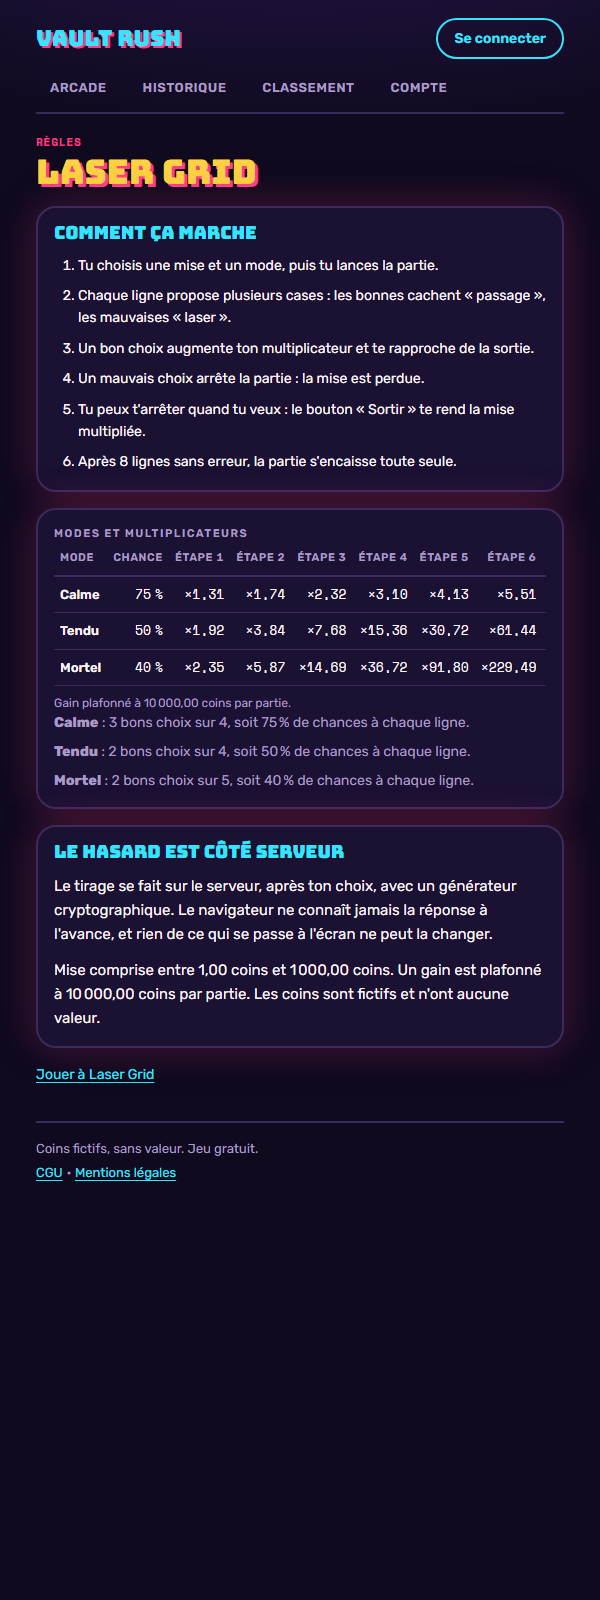
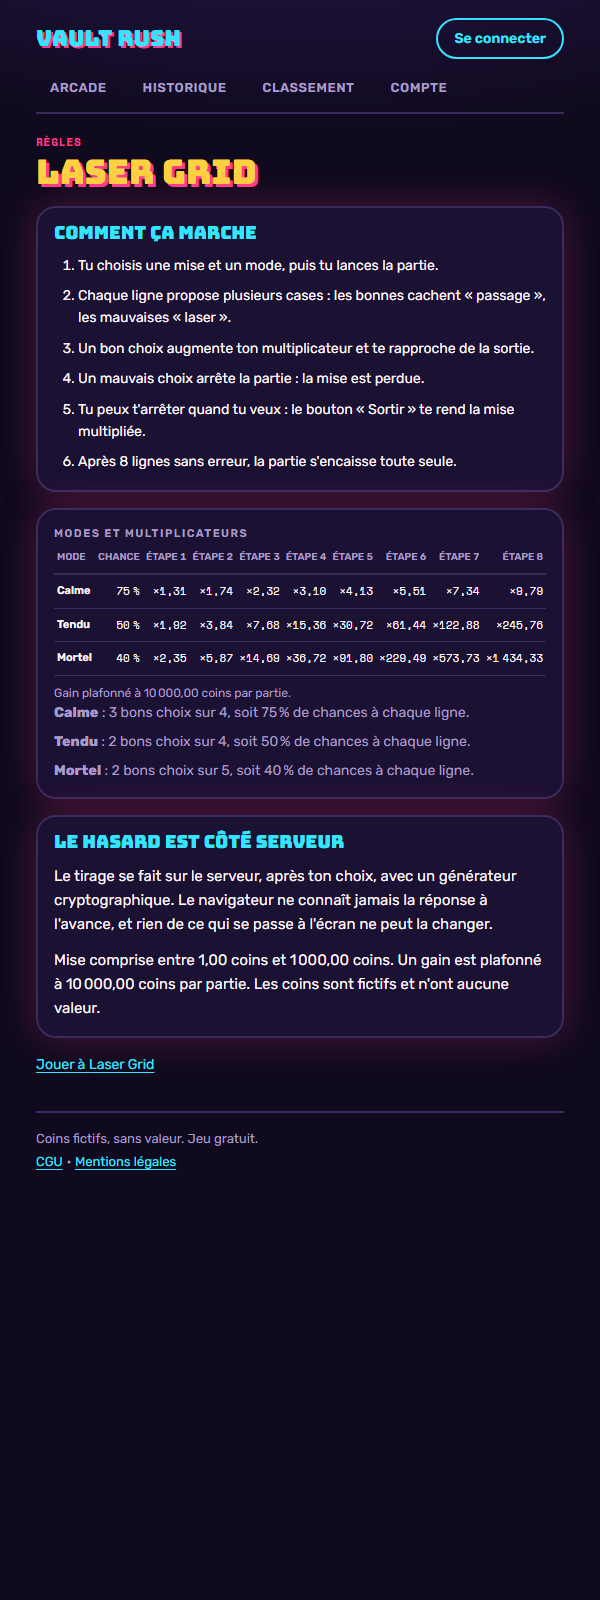
fix(client): rejouer après une reprise, solde relu quand un 409 clôt la partie
Deux défauts relevés en revue.

1. « Rejouer » ne faisait rien après une reprise : `lastBet` n'était posé que
   par `start`, donc après un rechargement en cours de partie (ou un 409
   `round_active`) le bouton restait actif et sortait en silence. La mise à
   rejouer est maintenant dérivée de la partie affichée dans `adopt()`, et le
   montage passe par `adopt` au lieu de poser l'état à la main.
2. Le bilan pouvait montrer un solde périmé : les branches d'erreur de `play`
   et de `cashout` adoptaient la partie du 409 sans relire le solde, alors
   qu'une partie encaissée ailleurs a déjà été créditée.

Deux tests ajoutés (116 au total) ; vérifiés en les faisant tomber d'abord.

Mineurs de la même revue :
- montant de la recharge gratuite passé par `formatCoins` ;
- `OptionGrid` reçoit le vocabulaire du jeu : une case révélée s'annonce
  « laser » / « passage » sur Laser Grid, plus « alarme » / « sûre » ;
- l'accent des tuiles suit le rang du jeu, sans identifiant en dur ;
- branche morte retirée de `errorMessage` ;
- le tableau des récompenses se resserre au-delà de 6 étapes : les 8 lignes
  de Laser Grid tiennent dans la carte (mesuré 492/492) au lieu de défiler.

Changed region(s): [[0.06, 0.3438, 0.93, 0.75]]

diff --git a/client/src/games/useLadderGame.ts b/client/src/games/useLadderGame.ts
@@ -2,6 +2,7 @@ import { useCallback, useEffect, useRef, useState } from "react";
 import { ApiError, games, type GameConfig, type Outcome, type Round } from "../api.ts";
 import { errorMessage } from "../lib/messages.ts";
 import { useSession } from "../session.tsx";
+import { coinsOnly } from "./bets.ts";
 import { capitalize } from "./labels.ts";
 
 /**
@@ -72,11 +73,18 @@ export function useLadderGame(gameId: string): LadderGame {
 
   const { refreshBalance, setBalance } = session;
 
-  /** Adopte l'état de partie renvoyé par le serveur (réponse ou corps d'un 409). */
+  /**
+   * Adopte l'état de partie renvoyé par le serveur (réponse ou corps d'un 409).
+   *
+   * La mise à rejouer est TOUJOURS dérivée de la partie affichée : sinon
+   * « Rejouer » ne ferait rien après une reprise (rechargement de page ou 409
+   * `round_active`), où aucun `start` n'a eu lieu dans cet onglet.
+   */
   const adopt = useCallback((next: Round, options: { resumed?: boolean } = {}) => {
     setRound(next);
     setResumed(options.resumed ?? false);
     setState(next.status === "playing" ? "active" : "finished");
+    setLastBet({ coins: coinsOnly(next.betCents), mode: next.mode });
   }, []);
 
   useEffect(() => {
@@ -97,11 +105,7 @@ export function useLadderGame(gameId: string): LadderGame {
         ]);
         if (annulé || !alive.current) return;
         setConfig(game);
-        if (en_cours) {
-          setRound(en_cours);
-          setResumed(true);
-          setState(en_cours.status === "playing" ? "active" : "finished");
-        }
+        if (en_cours) adopt(en_cours, { resumed: true });
       } catch (err) {
         if (!annulé && alive.current) setError(errorMessage(err));
       } finally {
@@ -112,7 +116,7 @@ export function useLadderGame(gameId: string): LadderGame {
     return () => {
       annulé = true;
     };
-  }, [gameId]);
+  }, [adopt, gameId]);
 
   /** Enveloppe commune : un seul vol à la fois, erreurs traduites. */
   const run = useCallback(async (action: () => Promise<void>) => {
@@ -185,8 +189,12 @@ export function useLadderGame(gameId: string): LadderGame {
             (err.code === "step_mismatch" || err.code === "round_not_active") &&
             err.payload.round
           ) {
+            const adoptée = err.payload.round as Round;
             setRevealed(null);
-            adopt(err.payload.round as Round);
+            adopt(adoptée);
+            // La partie a pu se terminer ailleurs (second onglet, requête
+            // doublée) : le gain est déjà crédité, le bilan doit le montrer.
+            if (adoptée.status !== "playing") await refreshBalance();
           }
           setError(errorMessage(err));
         }
@@ -208,12 +216,14 @@ export function useLadderGame(gameId: string): LadderGame {
         } catch (err) {
           if (!alive.current) return;
           if (err instanceof ApiError && err.code === "round_not_active" && err.payload.round) {
-            adopt(err.payload.round as Round);
+            const adoptée = err.payload.round as Round;
+            adopt(adoptée);
+            if (adoptée.status !== "playing") await refreshBalance();
           }
           setError(errorMessage(err));
         }
       }),
-    [adopt, config, gameId, round, run, setBalance],
+    [adopt, config, gameId, refreshBalance, round, run, setBalance],
   );
 
   const replay = useCallback(async () => {

diff --git a/client/tests/useLadderGame.test.tsx b/client/tests/useLadderGame.test.tsx
@@ -267,4 +267,59 @@ describe("useLadderGame", () => {
     expect(starts[1].body).toEqual({ betCoins: "25,00", mode: "risk" });
     expect(result.current.state).toBe("active");
   });
+
+  it("rejouer après une reprise relance la mise et le mode de la partie reprise", async () => {
+    // Aucun `start` n'a eu lieu dans cet onglet : la mise ne peut venir que
+    // de la partie reprise, sinon « Rejouer » serait un bouton mort.
+    const api = baseApi()
+      .on("GET /api/games/vault-rush/current", { json: { round: round(2) } })
+      .on("POST /api/games/vault-rush/cashout", {
+        json: {
+          round: round(2, { status: "cashed_out", payoutCents: 9600, cashoutCents: 9600 }),
+          balanceCents: 107_100,
+        },
+      })
+      .on("POST /api/games/vault-rush/start", { status: 201, json: { round: round(0) } });
+    const { result } = mount(api);
+    await waitFor(() => expect(result.current.state).toBe("active"));
+
+    await act(async () => {
+      await result.current.cashout();
+    });
+    expect(result.current.state).toBe("finished");
+
+    await act(async () => {
+      await result.current.replay();
+    });
+
+    const starts = api.callsTo("POST /api/games/vault-rush/start");
+    expect(starts.length).toBe(1);
+    expect(starts[0].body).toEqual({ betCoins: "25,00", mode: "risk" });
+    expect(result.current.state).toBe("active");
+  });
+
+  it("un 409 qui adopte une partie déjà terminée relit le solde", async () => {
+    // La partie a été encaissée ailleurs (autre onglet) : le gain est déjà
+    // crédité, le bilan doit montrer le vrai solde, pas celui d'avant.
+    const api = baseApi()
+      .on("GET /api/games/vault-rush/current", { json: { round: round(3) } })
+      .on("POST /api/games/vault-rush/play", {
+        status: 409,
+        json: {
+          error: "round_not_active",
+          round: round(3, { status: "cashed_out", payoutCents: 19_200, cashoutCents: 19_200 }),
+        },
+      })
+      .on("GET /api/wallet", { json: { balanceCents: 116_700 } });
+    const { result } = mount(api);
+    await waitFor(() => expect(result.current.state).toBe("active"));
+
+    await act(async () => {
+      await result.current.play(1);
+    });
+
+    expect(result.current.state).toBe("finished");
+    expect(result.current.round?.status).toBe("cashed_out");
+    expect(api.callsTo("GET /api/wallet").length).toBe(1);
+  });
 });

diff --git a/client/src/components/OptionGrid.tsx b/client/src/components/OptionGrid.tsx
@@ -5,8 +5,11 @@ export type OptionReveal = "safe" | "danger";
 export type OptionGridProps = {
   /** Nombre d'options proposées à cette étape. */
   count: number;
-  /** Vocabulaire du jeu : « Porte » (Vault Rush) ou « Case » (Laser Grid). */
-  labels: { option: string };
+  /**
+   * Vocabulaire du jeu : « Porte » / « Case », et les mots dits à la
+   * révélation (« coffre » / « alarme », « passage » / « laser »).
+   */
+  labels: { option: string; safe?: string; danger?: string };
   onPick: (option: number) => void;
   /** Vrai pendant une requête : plus aucun clic ne part. */
   disabled: boolean;
@@ -14,14 +17,14 @@ export type OptionGridProps = {
   revealed?: OptionReveal[];
 };
 
-const REVEAL_WORD: Record<OptionReveal, string> = {
-  safe: "sûre",
-  danger: "alarme",
-};
-
 /** Les N options d'une étape, révélées après la réponse du serveur. */
 export function OptionGrid({ count, labels, onPick, disabled, revealed }: OptionGridProps) {
   const noun = labels.option;
+  // Repli générique quand le jeu ne donne pas ses mots (vitrine, tests).
+  const word: Record<OptionReveal, string> = {
+    safe: labels.safe ?? "sûre",
+    danger: labels.danger ?? "alarme",
+  };
   return (
     <div
       className="optiongrid"
@@ -38,7 +41,7 @@ export function OptionGrid({ count, labels, onPick, disabled, revealed }: Option
             type="button"
             className="option"
             data-reveal={reveal}
-            aria-label={reveal ? `${noun} ${option} — ${REVEAL_WORD[reveal]}` : `${noun} ${option}`}
+            aria-label={reveal ? `${noun} ${option} — ${word[reveal]}` : `${noun} ${option}`}
             aria-disabled={disabled ? "true" : undefined}
             disabled={disabled}
             onClick={() => {

diff --git a/client/src/screens/Arcade.tsx b/client/src/screens/Arcade.tsx
@@ -4,6 +4,9 @@ import { games, type GameConfig } from "../api.ts";
 import { Amount, GameCard, PageTitle, Toast } from "../components/index.ts";
 import { errorMessage } from "../lib/messages.ts";
 
+/** Couleur d'accent par rang dans le catalogue : elle boucle si un jeu s'ajoute. */
+const ACCENTS = ["yellow", "cyan"] as const;
+
 /** L'accueil : le catalogue des jeux, lisible sans compte. */
 export function Arcade() {
   const navigate = useNavigate();
@@ -38,7 +41,7 @@ export function Arcade() {
             tag={`Jeu ${String(index + 1).padStart(2, "0")} · ${jeu.steps} ${jeu.labels.step}s`}
             title={jeu.name}
             tagline={jeu.tagline}
-            accent={jeu.id === "laser-grid" ? "cyan" : "yellow"}
+            accent={ACCENTS[index % ACCENTS.length]}
             onPlay={() => navigate(`/jeux/${jeu.id}`)}
             onRules={() => navigate(`/regles/${jeu.id}`)}
           />

diff --git a/client/src/screens/Game.tsx b/client/src/screens/Game.tsx
@@ -13,6 +13,8 @@ import { useSession } from "../session.tsx";
 
 /** Solde sous lequel la recharge gratuite est proposée (10,00 coins). */
 const REFILL_THRESHOLD_CENTS = 1000;
+/** Montant de la recharge gratuite, côté serveur (`wallet.service.ts`). */
+const REFILL_AMOUNT_CENTS = 100_000;
 
 /** L'écran de jeu, le même pour tous les jeux d'échelle. */
 export function Game() {
@@ -149,7 +151,7 @@ function Refill({ onBalance }: { onBalance: (cents: number) => void }) {
   return (
     <div className="refill">
       <Button variant="secondary" pending={pending} onClick={() => void recharger()}>
-        Recharge gratuite (1 000 coins)
+        {`Recharge gratuite (${formatCoins(REFILL_AMOUNT_CENTS)})`}
       </Button>
       {message ? <Toast kind={failed ? "bad" : "good"}>{message}</Toast> : null}
     </div>

diff --git a/client/src/components/RewardTable.tsx b/client/src/components/RewardTable.tsx
@@ -29,7 +29,9 @@ export function RewardTable({ modes, betCents, maxPayoutCents }: RewardTableProp
   const columns = shownSteps(steps);
 
   return (
-    <div className="rewardtable">
+    // `data-dense` au-delà de 6 étapes : Laser Grid (8) tient alors dans la
+    // carte au lieu d'exiger un défilement horizontal pour ses 2 dernières.
+    <div className="rewardtable" data-dense={columns.length > 6 || undefined}>
       {/* Zone défilante : focalisable pour que le clavier puisse la parcourir. */}
       <div
         className="rewardtable__scroll"

diff --git a/client/src/games/PlayPanel.tsx b/client/src/games/PlayPanel.tsx
@@ -28,7 +28,11 @@ export function PlayPanel({ config, round, revealed, pending, onPick, onCashout 
 
       <OptionGrid
         count={mode?.options ?? 0}
-        labels={{ option: capitalize(config.labels.option) }}
+        labels={{
+            option: capitalize(config.labels.option),
+            safe: config.labels.safe,
+            danger: config.labels.danger,
+          }}
         onPick={onPick}
         disabled={pending}
         revealed={revealed ?? undefined}

diff --git a/client/src/games/Bilan.tsx b/client/src/games/Bilan.tsx
@@ -38,7 +38,11 @@ export function Bilan({
       {revealed ? (
         <OptionGrid
           count={revealed.length}
-          labels={{ option: capitalize(config.labels.option) }}
+          labels={{
+            option: capitalize(config.labels.option),
+            safe: config.labels.safe,
+            danger: config.labels.danger,
+          }}
           onPick={() => {}}
           disabled
           revealed={revealed}

diff --git a/client/src/styles/components.css b/client/src/styles/components.css
@@ -387,6 +387,21 @@
   border-bottom: 1px solid var(--line);
 }
 
+/* Beaucoup d'étapes : on resserre plutôt que de faire défiler. */
+.rewardtable[data-dense] table {
+  font-size: 11px;
+}
+
+.rewardtable[data-dense] thead th {
+  font-size: 10px;
+  letter-spacing: 0;
+}
+
+.rewardtable[data-dense] th,
+.rewardtable[data-dense] td {
+  padding: 8px 3px;
+}
+
 .rewardtable__gains {
   display: flex;
   flex-direction: column;

diff --git a/client/src/lib/messages.ts b/client/src/lib/messages.ts
@@ -50,7 +50,6 @@ export function errorMessage(err: unknown): string {
   if (err instanceof ApiError) {
     const known = MESSAGES[err.code];
     if (known) return known;
-    if (err.code === "invalid_body") return MESSAGES.invalid_body;
   }
   return MESSAGES.internal_error;
 }
